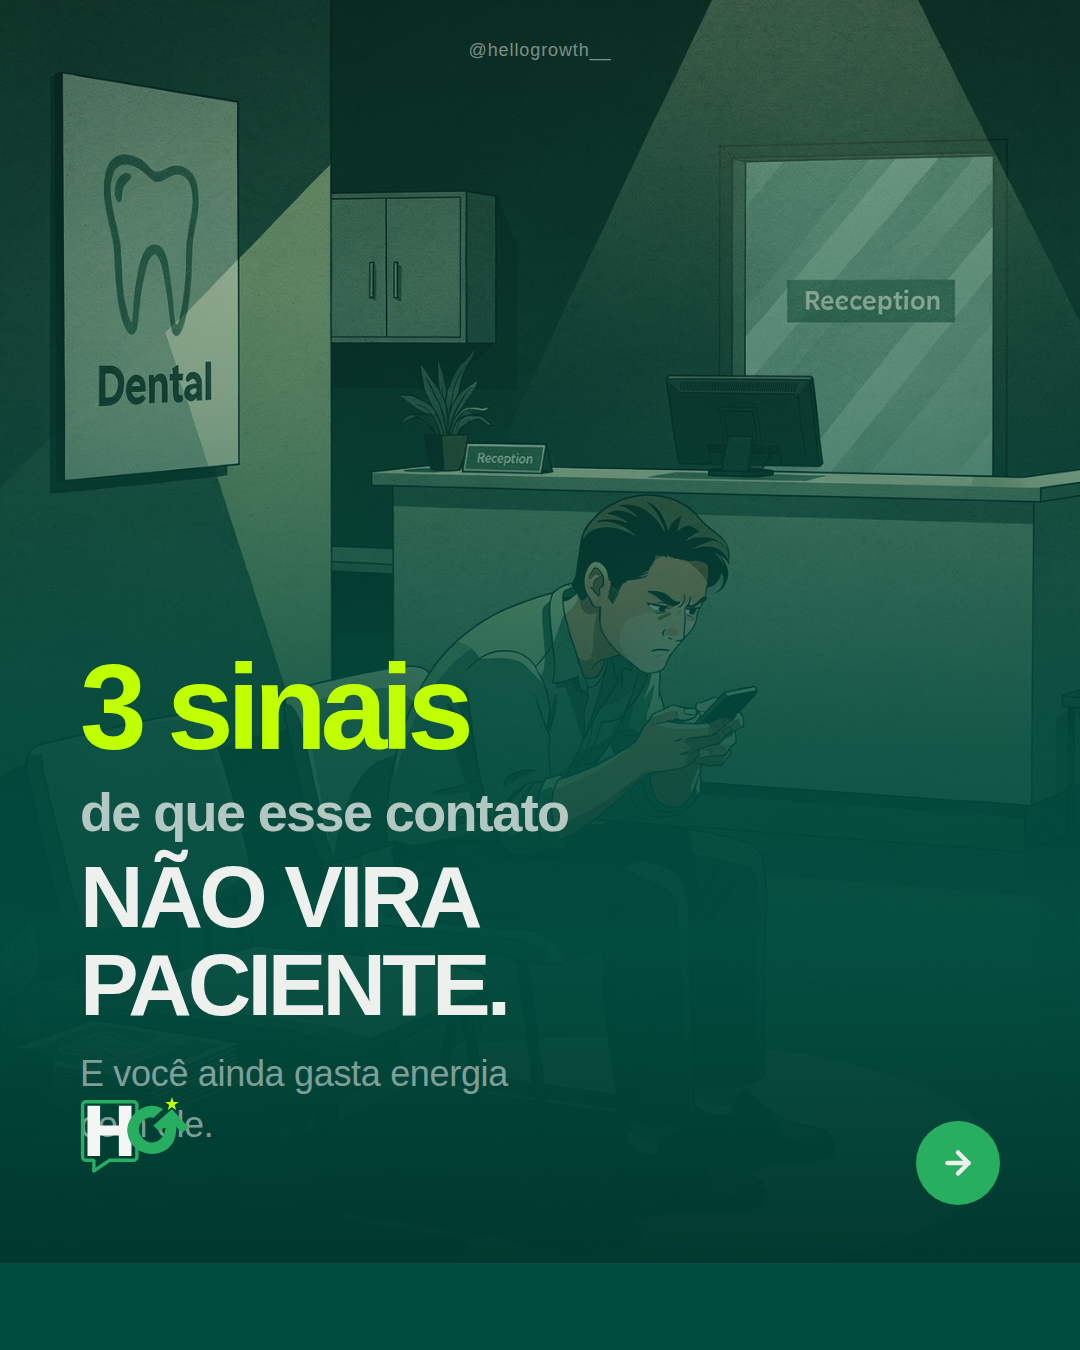
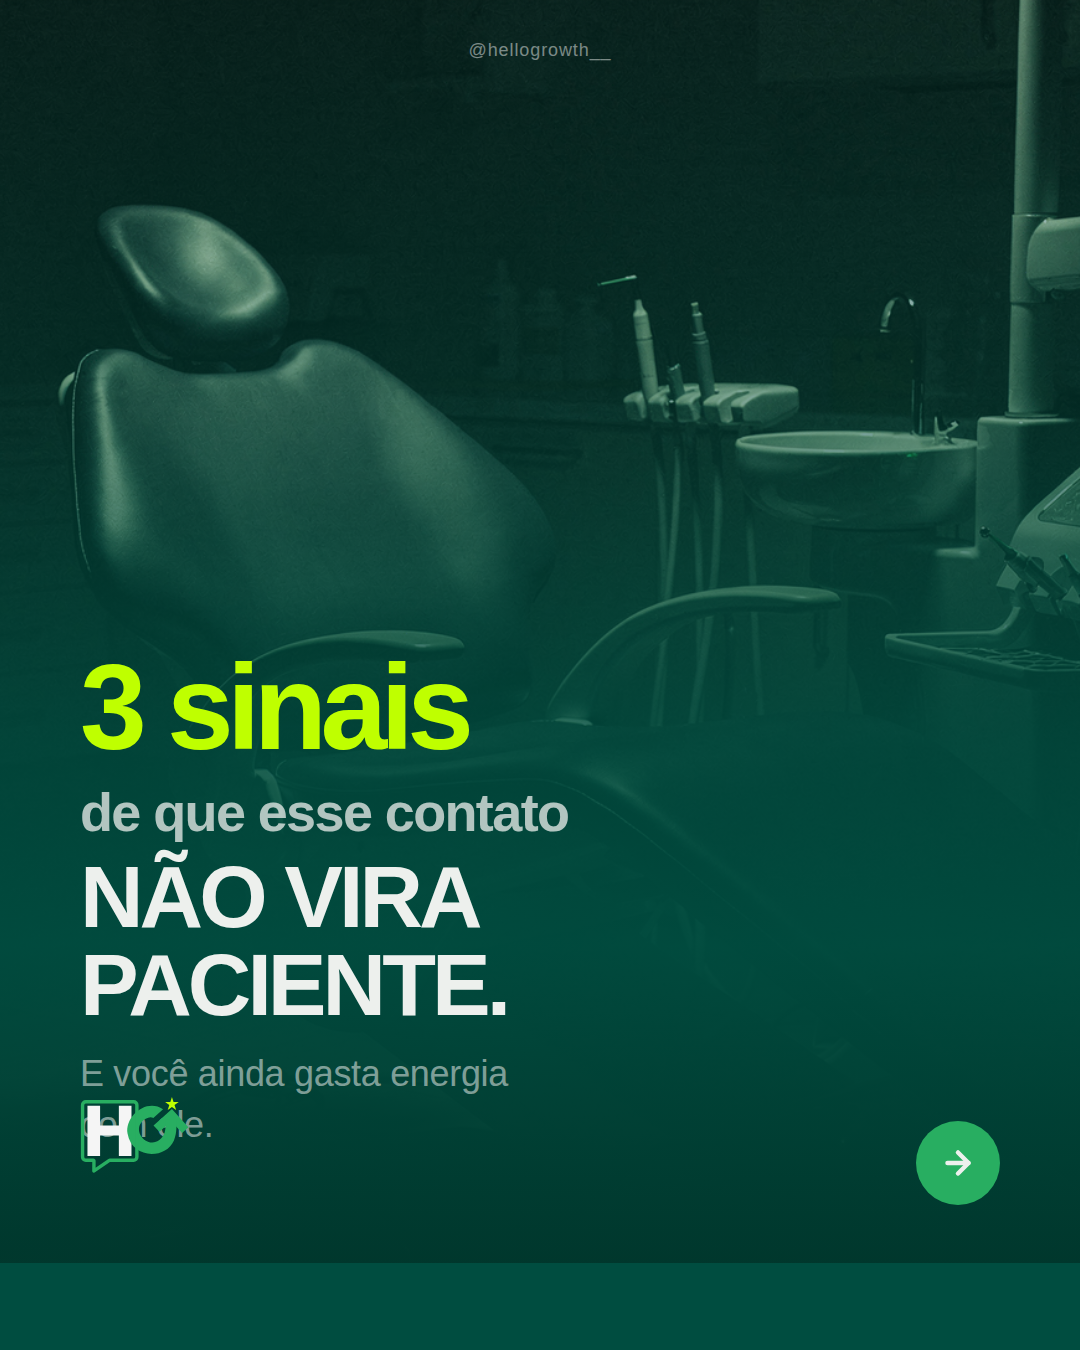
3 Sinais V3: swap cover photo to empty dental chair
Replace the illustration with the photorealistic empty dental chair
shot — darker, moodier, and real photography instead of animation.

https://claude.ai/code/session_01RXRUyw64HWp6pgoosUTsE4

Changed region(s): [[0.0, 0.0, 1.0, 0.6222]]

diff --git a/squads/social-content/output/2026-06-08-3sinais/slides/slide-01.html b/squads/social-content/output/2026-06-08-3sinais/slides/slide-01.html
@@ -12,7 +12,7 @@ html, body { width: 1080px; height: 1350px; background: #004d40; font-family: 'I
 /* Photo background */
 .bg-photo {
   position: absolute; inset: 0;
-  background: url('photos/cover-waiting.png') center center / cover no-repeat;
+  background: url('photos/signal2-empty-chair.png') center center / cover no-repeat;
 }
 /* Dark gradient overlay from bottom */
 .overlay {
